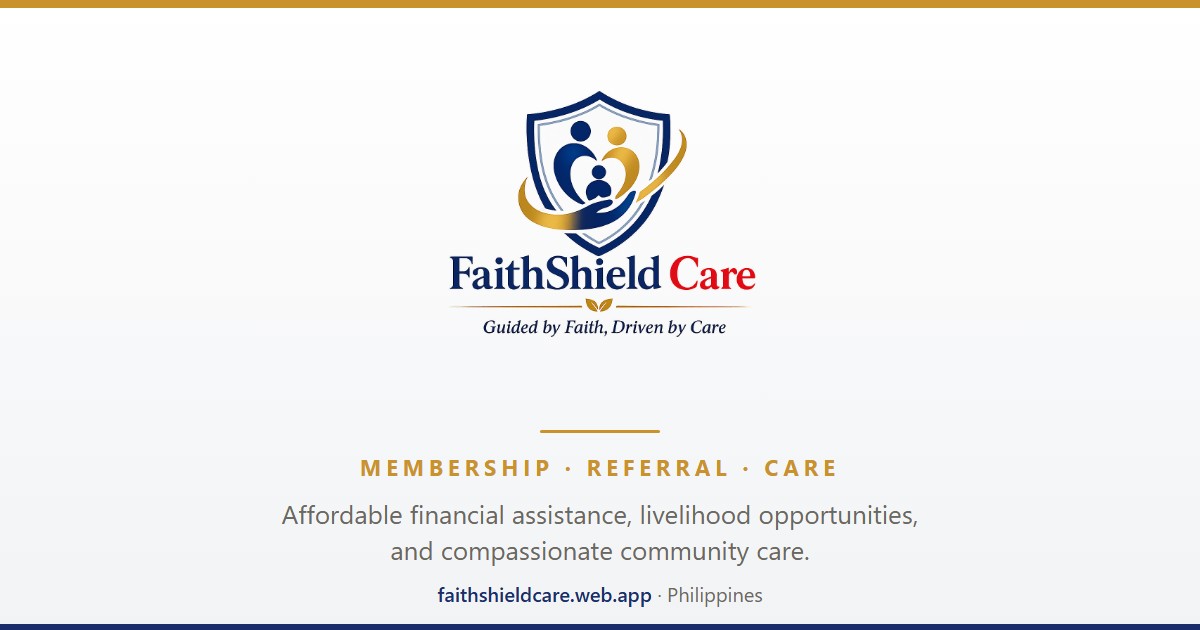
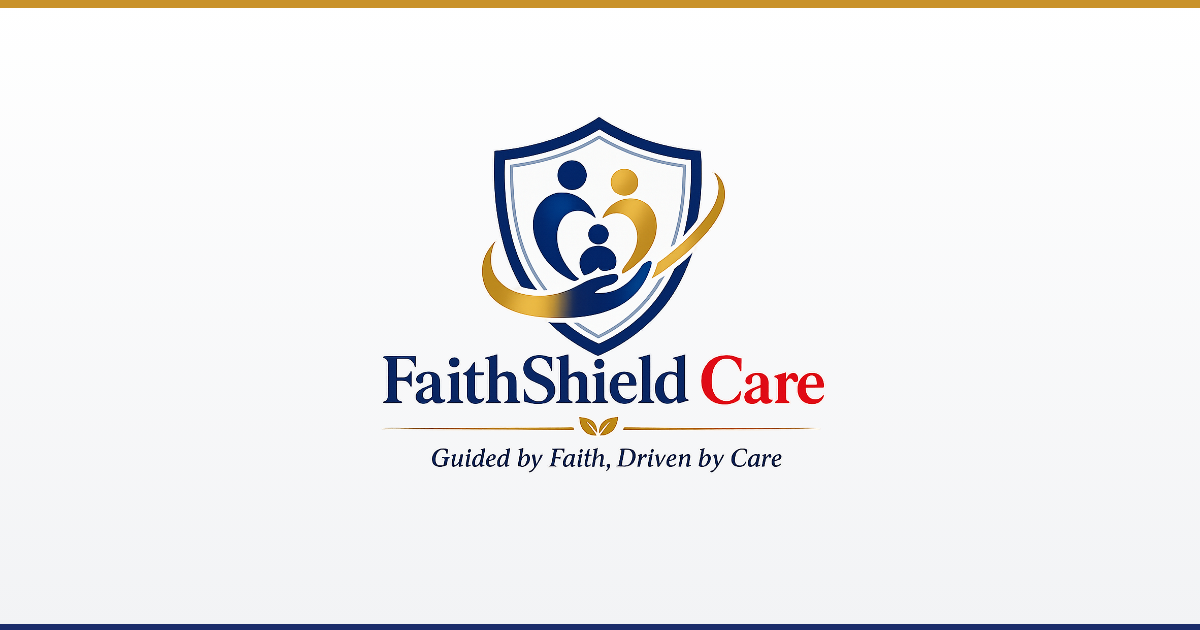
feat: update Open Graph title and image for improved branding

Changed region(s): [[0.2775, 0.1508, 0.7092, 0.754], [0.2158, 0.7841, 0.7708, 0.9048], [0.37, 0.9349, 0.6475, 0.9651]]

diff --git a/index.html b/index.html
@@ -5,7 +5,7 @@
         <link rel="icon" type="image/svg+xml" href="/favicon.svg" />
         <meta name="viewport" content="width=device-width, initial-scale=1.0" />
 
-        <title>Faith Shield Care</title>
+        <title>Faith Shield Care — Guided by Faith, Driven by Care</title>
         <meta
             name="description"
             content="Faith Shield Care is a community-based membership program providing affordable financial assistance, livelihood opportunities, and compassionate care — guided by faith and driven by compassion."
@@ -16,7 +16,7 @@
         <!-- Open Graph protocol (Facebook, LinkedIn, Messenger, etc.) -->
         <!-- The 4 required properties per ogp.me: og:title, og:type, og:image, og:url -->
         <!-- NOTE: update the absolute domain below once the production domain is final. -->
-        <meta property="og:title" content="Faith Shield Care" />
+        <meta property="og:title" content="Faith Shield Care — Guided by Faith, Driven by Care" />
         <meta property="og:type" content="website" />
         <meta property="og:url" content="https://faithshieldcare.web.app/" />
         <meta property="og:image" content="https://faithshieldcare.web.app/og-image.png" />
@@ -24,7 +24,7 @@
         <meta property="og:image:type" content="image/png" />
         <meta property="og:image:width" content="1200" />
         <meta property="og:image:height" content="630" />
-        <meta property="og:image:alt" content="Faith Shield Care" />
+        <meta property="og:image:alt" content="Faith Shield Care — Guided by Faith, Driven by Care" />
         <meta property="og:site_name" content="Faith Shield Care" />
         <meta property="og:locale" content="en_PH" />
         <meta
@@ -34,13 +34,13 @@
 
         <!-- Twitter / X -->
         <meta name="twitter:card" content="summary_large_image" />
-        <meta name="twitter:title" content="Faith Shield Care" />
+        <meta name="twitter:title" content="Faith Shield Care — Guided by Faith, Driven by Care" />
         <meta
             name="twitter:description"
             content="A community-based membership program providing affordable financial assistance, livelihood opportunities, and compassionate care."
         />
         <meta name="twitter:image" content="https://faithshieldcare.web.app/og-image.png" />
-        <meta name="twitter:image:alt" content="Faith Shield Care" />
+        <meta name="twitter:image:alt" content="Faith Shield Care — Guided by Faith, Driven by Care" />
 
         <!-- Structured data for Google Search (rich results) -->
         <script type="application/ld+json">